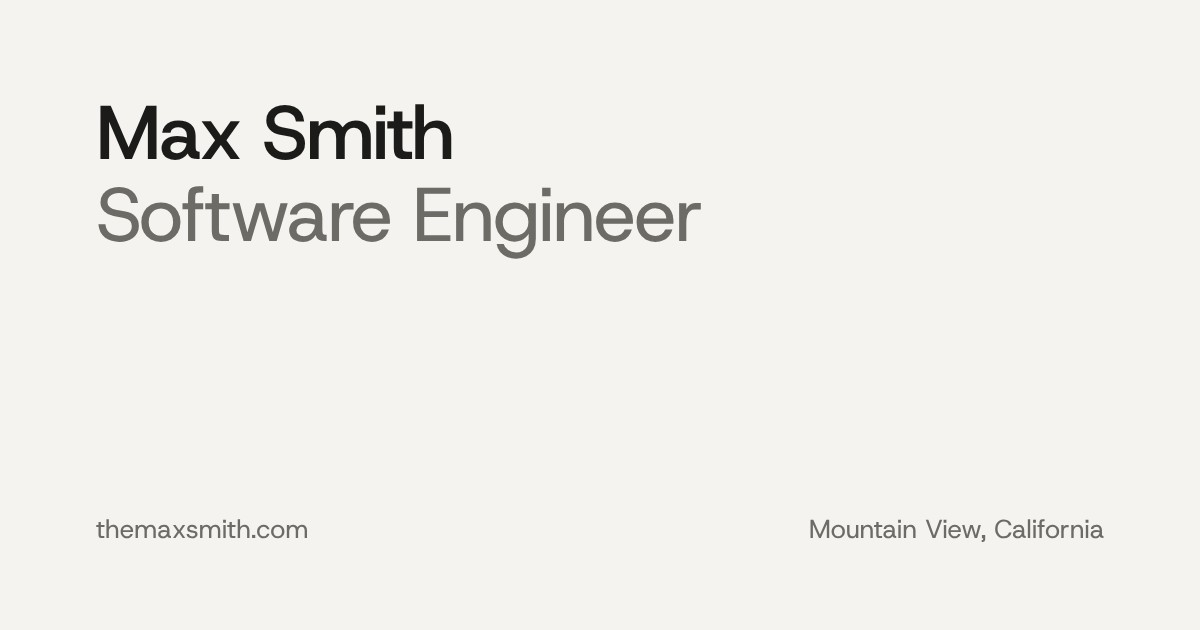
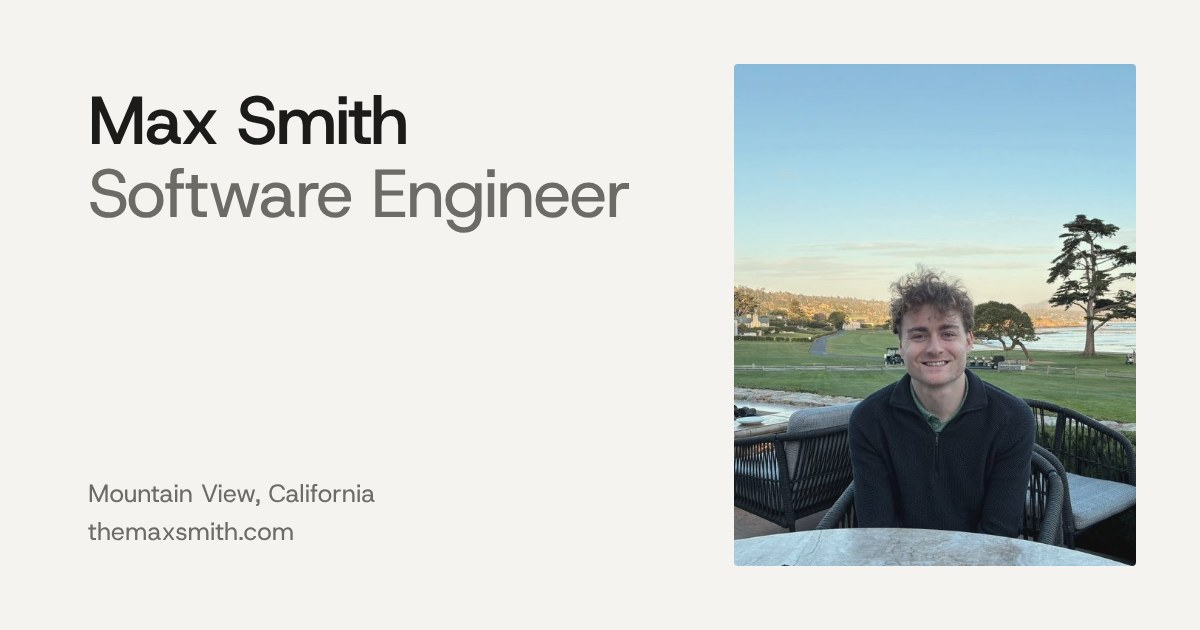
v5: PlayStation promotion ladder, internships with detail, personal photos
- Work: PlayStation shown as intern -> Software Engineer I -> Software Engineer II/tech lead; Hy-Vee, Polaris and Tero as their own rows with one line each; SeasonCast award
- Lead now says "went from intern to tech lead"
- Four of Max's own photos (Carmel Bay, Iowa, San Francisco, Lake Tahoe), sRGB, matte grade, no metadata; strip breaks out of the text column on desktop and scrolls on phones
- Person.image, image sitemap, share card with the portrait
- llms.txt and README updated

Claude-Session: https://claude.ai/code/session_01SUaRXUxPcLJbSgkGS8vuph

diff --git a/site/index.html b/site/index.html
@@ -21,7 +21,7 @@
   <meta property="og:image:type" content="image/jpeg">
   <meta property="og:image:width" content="1200">
   <meta property="og:image:height" content="630">
-  <meta property="og:image:alt" content="Max Smith, software engineer">
+  <meta property="og:image:alt" content="Max Smith, software engineer, above Carmel Bay, California">
   <meta property="profile:first_name" content="Max">
   <meta property="profile:last_name" content="Smith">
   <meta property="profile:username" content="themaxsmith">
@@ -29,7 +29,7 @@
   <meta name="twitter:title" content="Max Smith">
   <meta name="twitter:description" content="Software engineer in Mountain View, California. Previously PlayStation. Founder of SeasonCast.">
   <meta name="twitter:image" content="https://themaxsmith.com/img/og.jpg">
-  <meta name="twitter:image:alt" content="Max Smith, software engineer">
+  <meta name="twitter:image:alt" content="Max Smith, software engineer, above Carmel Bay, California">
 
   <link rel="icon" href="/favicon.svg" type="image/svg+xml">
   <link rel="icon" href="/favicon-32x32.png" sizes="32x32" type="image/png">
@@ -71,6 +71,7 @@
         "givenName": "Maxwell",
         "familyName": "Smith",
         "url": "https://themaxsmith.com/",
+        "image": "https://themaxsmith.com/img/carmel-lg.jpg",
         "description": "Software engineer in Mountain View, California, in the San Francisco Bay Area. From Ankeny, Iowa. Previously PlayStation in San Francisco. Founder of SeasonCast.",
         "jobTitle": "Software Engineer",
         "hasOccupation": { "@type": "Occupation", "name": "Software Engineer" },
@@ -122,12 +123,57 @@
 
     <main id="main" tabindex="-1">
       <section class="intro" aria-label="About">
-        <p class="lead" style="--i: 1">I’m a software engineer at Apple, living in Mountain View. Before that I spent three years at PlayStation in San&nbsp;Francisco, on its web, mobile and desktop apps.</p>
+        <p class="lead" style="--i: 1">I’m a software engineer at Apple, living in Mountain View. Before that I spent three years at PlayStation in San&nbsp;Francisco, where I went from intern to tech lead.</p>
         <p style="--i: 2">I’m from Ankeny, Iowa. In 2019, the year I finished high school, I started SeasonCast, a live-streaming platform for high school and youth sports, and wrote all seven of its codebases myself, from the iOS and Android apps to a C++ media server. It grew to 300,000 monthly users and 6,000 teams a year, and held 99.995% uptime for more than three years.</p>
         <p style="--i: 3">On personal projects I work with AI coding agents and hold their work to the same bar as anyone’s: a small ticket, a check that has to pass, and a review before it merges.</p>
       </section>
 
-      <section class="list" id="work" aria-labelledby="work-h" style="--i: 4">
+      <section class="photos" aria-label="Photos" style="--i: 4">
+        <ul class="strip">
+          <li>
+            <figure>
+              <picture>
+                <source type="image/webp" srcset="/img/carmel-sm.webp 480w, /img/carmel-lg.webp 544w" sizes="(min-width: 760px) 232px, 70vw">
+                <img src="/img/carmel-lg.jpg" srcset="/img/carmel-sm.jpg 480w, /img/carmel-lg.jpg 544w" sizes="(min-width: 760px) 232px, 70vw"
+                     width="544" height="680" alt="Max Smith on a terrace above Carmel Bay, California, at golden hour" loading="lazy" decoding="async">
+              </picture>
+              <figcaption>Carmel Bay, California</figcaption>
+            </figure>
+          </li>
+          <li>
+            <figure>
+              <picture>
+                <source type="image/webp" srcset="/img/iowa-sm.webp 480w, /img/iowa-lg.webp 768w" sizes="(min-width: 760px) 232px, 70vw">
+                <img src="/img/iowa-lg.jpg" srcset="/img/iowa-sm.jpg 480w, /img/iowa-lg.jpg 768w" sizes="(min-width: 760px) 232px, 70vw"
+                     width="768" height="960" alt="A red barn and grain bins on a green hill in Iowa at dusk" loading="lazy" decoding="async">
+              </picture>
+              <figcaption>Iowa</figcaption>
+            </figure>
+          </li>
+          <li>
+            <figure>
+              <picture>
+                <source type="image/webp" srcset="/img/sf-sm.webp 480w, /img/sf-lg.webp 768w" sizes="(min-width: 760px) 232px, 70vw">
+                <img src="/img/sf-lg.jpg" srcset="/img/sf-sm.jpg 480w, /img/sf-lg.jpg 768w" sizes="(min-width: 760px) 232px, 70vw"
+                     width="768" height="960" alt="San Francisco rooftops at sunset, looking north to the Golden Gate" loading="lazy" decoding="async">
+              </picture>
+              <figcaption>San Francisco</figcaption>
+            </figure>
+          </li>
+          <li>
+            <figure>
+              <picture>
+                <source type="image/webp" srcset="/img/tahoe-sm.webp 480w, /img/tahoe-lg.webp 768w" sizes="(min-width: 760px) 232px, 70vw">
+                <img src="/img/tahoe-lg.jpg" srcset="/img/tahoe-sm.jpg 480w, /img/tahoe-lg.jpg 768w" sizes="(min-width: 760px) 232px, 70vw"
+                     width="768" height="960" alt="Lake Tahoe from the top of a ski run" loading="lazy" decoding="async">
+              </picture>
+              <figcaption>Lake Tahoe</figcaption>
+            </figure>
+          </li>
+        </ul>
+      </section>
+
+      <section class="list" id="work" aria-labelledby="work-h" style="--i: 5">
         <h2 class="label" id="work-h">Work</h2>
         <ol class="roles">
           <li class="role">
@@ -141,10 +187,26 @@
           <li class="role">
             <h3 class="role-org">PlayStation</h3>
             <div class="role-meta">
-              <p class="role-title">Software Engineer II</p>
               <p class="role-place">San Francisco, California</p>
             </div>
             <p class="role-when"><time datetime="2022-05">2022</time>–<time datetime="2025-05">2025</time></p>
+            <ol class="steps" aria-label="Roles at PlayStation, most recent first">
+              <li class="step">
+                <p class="step-title">Software Engineer II</p>
+                <p class="step-when"><time datetime="2023-10">2023</time>–<time datetime="2025-05">2025</time></p>
+                <p class="step-desc">Technical lead for a PlayStation Network feature. Shipped across the web, mobile and desktop apps in React and React Native.</p>
+              </li>
+              <li class="step">
+                <p class="step-title">Software Engineer I</p>
+                <p class="step-when"><time datetime="2023-01">2023</time></p>
+                <p class="step-desc">Features for the PlayStation App and a React Native desktop app.</p>
+              </li>
+              <li class="step">
+                <p class="step-title">Software Engineering Intern</p>
+                <p class="step-when"><time datetime="2022-05">2022</time></p>
+                <p class="step-desc">Built and launched a new customer-facing PlayStation Network app, full stack.</p>
+              </li>
+            </ol>
           </li>
           <li class="role">
             <h3 class="role-org">SeasonCast</h3>
@@ -153,19 +215,39 @@
               <p class="role-place">Ankeny, Iowa</p>
             </div>
             <p class="role-when"><time datetime="2019-05">2019</time>–<time datetime="2024-06">2024</time></p>
+            <p class="role-desc">First place, best student-owned business, Iowa State University, 2021.</p>
           </li>
           <li class="role">
-            <h3 class="role-org">Hy-Vee, Polaris, Tero International</h3>
+            <h3 class="role-org">Hy-Vee</h3>
             <div class="role-meta">
               <p class="role-title">Software Engineering Intern</p>
-              <p class="role-place">Iowa and Minnesota</p>
+              <p class="role-place">Des Moines, Iowa</p>
             </div>
-            <p class="role-when"><time datetime="2019-05">2019</time>–<time datetime="2021-08">2021</time></p>
+            <p class="role-when"><time datetime="2021-05">2021</time></p>
+            <p class="role-desc">Product pages and search for the online grocery site and app behind 245+ stores.</p>
+          </li>
+          <li class="role">
+            <h3 class="role-org">Polaris</h3>
+            <div class="role-meta">
+              <p class="role-title">Software Developer Intern</p>
+              <p class="role-place">Medina, Minnesota</p>
+            </div>
+            <p class="role-when"><time datetime="2020-05">2020</time></p>
+            <p class="role-desc">Wrote the NFC library that programs the emblem on Polaris snowmobiles, RZRs and ATVs from 2022 on.</p>
+          </li>
+          <li class="role">
+            <h3 class="role-org">Tero International</h3>
+            <div class="role-meta">
+              <p class="role-title">Software Developer Intern</p>
+              <p class="role-place">Clive, Iowa</p>
+            </div>
+            <p class="role-when"><time datetime="2019-05">2019</time></p>
+            <p class="role-desc">A client onboarding system and a digital quiz tool, in PHP and JavaScript.</p>
           </li>
         </ol>
       </section>
 
-      <section class="list" id="education" aria-labelledby="education-h" style="--i: 5">
+      <section class="list" id="education" aria-labelledby="education-h" style="--i: 6">
         <h2 class="label" id="education-h">Education</h2>
         <ol class="roles">
           <li class="role">
@@ -188,7 +270,7 @@
       </section>
     </main>
 
-    <footer class="foot" id="contact" style="--i: 6">
+    <footer class="foot" id="contact" style="--i: 7">
       <p><a class="js-email" href="#contact"><span class="email-text">themaxsmith [at] icloud [dot] com</span></a></p>
       <p class="fine">© <span class="js-year">2026</span> Max Smith</p>
     </footer>

diff --git a/site/styles.css b/site/styles.css
@@ -129,6 +129,7 @@ main:focus { outline: none; }
   display: grid;
   grid-template-columns: minmax(0, 1fr) auto;
   grid-template-areas: "org when" "meta meta";
+  align-items: baseline;
   column-gap: 1.5rem;
   padding-block: .85rem;
   line-height: 1.45;
@@ -141,6 +142,92 @@ main:focus { outline: none; }
 @media (min-width: 560px) {
   .role-meta { display: flex; flex-wrap: wrap; column-gap: .5rem; }
   .role-meta p + p::before { content: "·"; margin-right: .5rem; }
+}
+
+.role-desc { grid-column: 1 / -1; margin-top: .35rem; max-width: 34rem; text-wrap: pretty; }
+
+/* promotions: a quiet ladder, most recent on top */
+.steps {
+  grid-column: 1 / -1;
+  position: relative;
+  margin-top: .9rem;
+  padding-left: 1.25rem;
+}
+.steps::before {                       /* the rail */
+  content: "";
+  position: absolute;
+  left: 3px;
+  top: .55rem;
+  bottom: .9rem;
+  width: 1px;
+  background: var(--rule);
+}
+.step {
+  position: relative;
+  display: grid;
+  grid-template-columns: minmax(0, 1fr) auto;
+  column-gap: 1.5rem;
+  padding-bottom: .85rem;
+}
+.step:last-child { padding-bottom: 0; }
+.step::before {                        /* the stop */
+  content: "";
+  position: absolute;
+  left: calc(-1.25rem + 0px);
+  top: .5rem;
+  width: 7px;
+  height: 7px;
+  border-radius: 50%;
+  background: var(--paper);
+  box-shadow: inset 0 0 0 1px var(--gray);
+}
+.step:first-child::before { background: var(--ink); box-shadow: none; }
+.step-title { font-weight: 480; }
+.step-when  { color: var(--gray); white-space: nowrap; }
+.step-desc  { grid-column: 1 / -1; margin-top: .15rem; max-width: 32rem; text-wrap: pretty; }
+
+/* ---------- photos: wider than the text, like prints on a table ---------- */
+
+.photos { margin-top: clamp(56px, 9vh, 88px); }
+
+.strip {
+  display: flex;
+  gap: 10px;
+  overflow-x: auto;
+  scroll-snap-type: x mandatory;
+  scrollbar-width: none;
+  width: 100vw;
+  margin-left: calc(50% - 50vw);
+  padding-inline: 24px;
+  scroll-padding-inline: 24px;
+  overscroll-behavior-x: contain;
+}
+.strip::-webkit-scrollbar { display: none; }
+.strip li { flex: 0 0 70vw; max-width: 300px; scroll-snap-align: start; }
+.strip figure { margin: 0; }
+.strip img {
+  display: block;
+  width: 100%;
+  height: auto;
+  aspect-ratio: 4 / 5;
+  object-fit: cover;
+  border-radius: 3px;
+  background: var(--rule);
+}
+.strip figcaption { margin-top: .5rem; font-size: .8125rem; color: var(--gray); }
+
+@media (min-width: 760px) {
+  .strip {
+    display: grid;
+    grid-template-columns: repeat(4, minmax(0, 1fr));
+    gap: 12px;
+    overflow: visible;
+    width: min(60rem, 100vw - 48px);
+    margin-left: 50%;
+    translate: -50% 0;
+    padding-inline: 0;
+  }
+  .strip li { max-width: none; }
 }
 
 /* ---------- footer ---------- */
@@ -182,4 +269,5 @@ main:focus { outline: none; }
   .links a[href^="http"]::after { content: " " attr(href); }
   [style*="--i"] { animation: none; }
   .list, .foot { break-inside: avoid; }
+  .photos { display: none; }
 }

diff --git a/README.md b/README.md
@@ -9,7 +9,7 @@ Personal site of Max Smith: one static page, one typeface, one column on warm pa
 | `site/index.html` | The page, including meta tags and `Person` / `ProfilePage` structured data |
 | `site/styles.css` | All styles. Light and dark follow the system; motion respects reduced-motion |
 | `site/main.js` | Email link assembly and footer year |
-| `site/img/og.jpg` | The social card (typographic, no photo) |
+| `site/img/` | Four graded photos (`*-sm`/`*-lg`, WebP + JPEG) and the social card `og.jpg` |
 | `site/llms.txt`, `robots.txt`, `sitemap.xml` | What crawlers and AI assistants read |
 | `scripts/check.mjs` | Pre-publish check: guardrails plus search basics. Exits 1 on any failure |
 | `scripts/guardrails.json` | Words and patterns that must never appear on the public site |
@@ -26,6 +26,7 @@ npm run deploy   # check, then publish site/ to the gh-pages branch (themaxsmith
 
 - The Apple role is title, city and dates only. No team, project, tool or product names, nothing that is not already public, no Apple logos or imagery, nothing that reads as speaking for Apple.
 - The AI wording is about how Max works, never about his employer's work. It must not share a sentence with the Apple role. **needs Apple check** before it goes public.
+- Photos: Max's own, no Apple campus or offices, no coworkers or other people, nothing that shows where he lives. Converted to sRGB, re-encoded without metadata (the check fails on EXIF/GPS).
 - SeasonCast is shown as past work (2019–2024) with no store or company links.
 - No phone number, and the email address is assembled in JavaScript.
 - Add a pattern to `scripts/guardrails.json` before adding new content of a new kind. `npm run check` must pass before `npm run deploy`.
